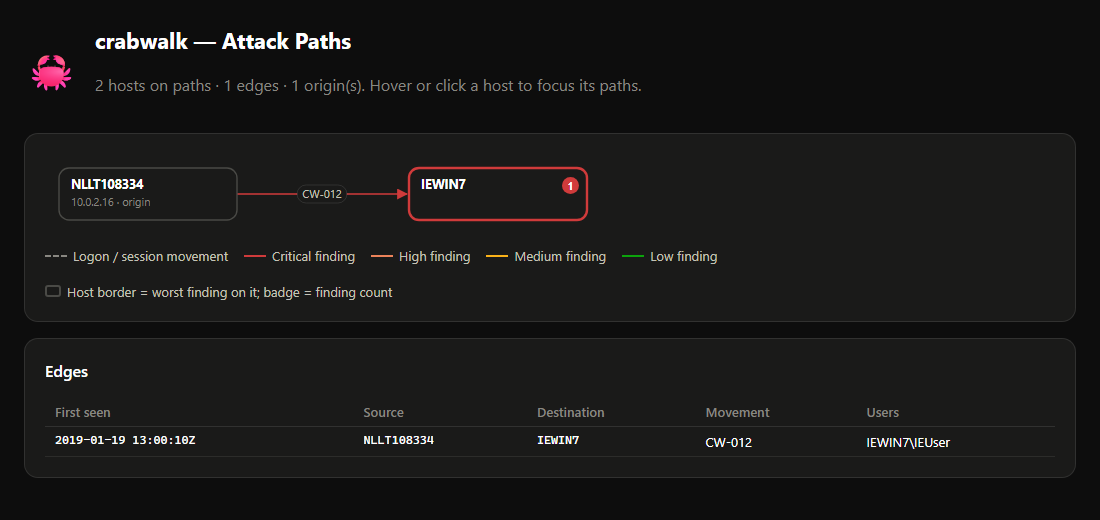
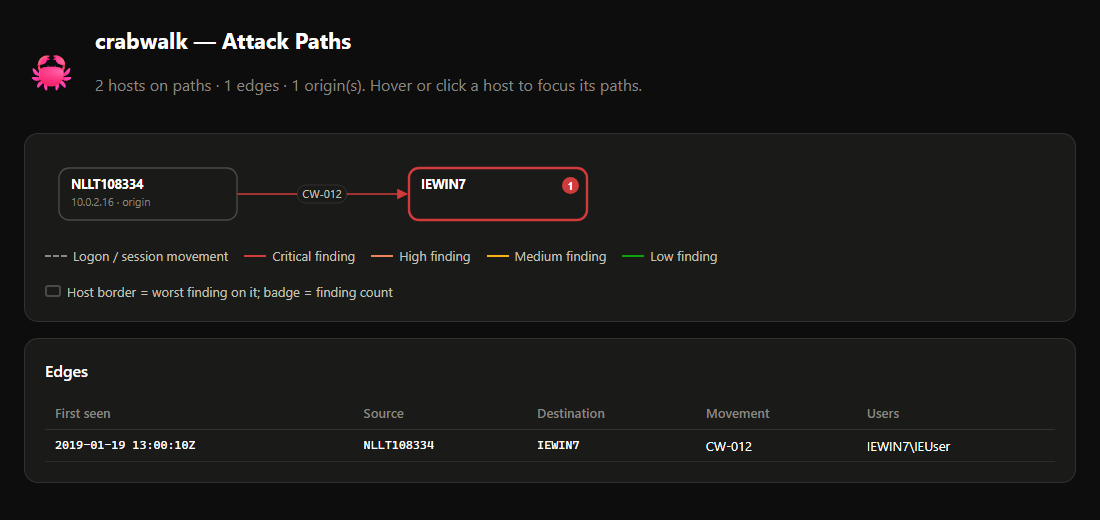
fix: start every report, graph and demo page with a doctype (no quirks mode)
The --report and --graph .html outputs and the demo landing page began with
<meta charset>, so browsers rendered them in quirks mode. style.page_head(),
which starts all three, now writes <!doctype html> and <html lang="en"> first.

Standards mode changes only vertical spacing: table rows now inherit the body
line-height (+2-3 px), story lines lose the line-height quirk (+2-3 px), and
html/body follow the content height. The timeline SVG, inline until now, would
have gained a baseline gap below it, so it gets display:block like the attack
graph. The README hero and the write-up graph image are regenerated from the
new output; CLAUDE.md records the exact Edge flags used for them.

The report and site tests check that every page starts with a doctype.

diff --git a/src/crabwalk/style.py b/src/crabwalk/style.py
@@ -103,6 +103,7 @@ td.num,th.num{text-align:right;font-variant-numeric:tabular-nums}
   .beats .b-text{grid-column:1/-1}
 }
 svg.attack-graph{display:block;max-width:none}
+svg.timeline{display:block}  /* inline, it would sit on the baseline with a gap below */
 svg.attack-graph text{font-family:var(--font)}
 .attack-graph .box{fill:var(--surface)}
 .attack-graph .line{fill:none}
@@ -114,8 +115,13 @@ svg.attack-graph text{font-family:var(--font)}
 
 
 def page_head(title_html: str) -> str:
-    """<head> content shared by every HTML page crabwalk writes."""
+    """The start of every page built on PAGE_CSS (--report, --graph .html, the
+    demo landing page): the doctype (without it a browser renders in quirks
+    mode), <html lang> and the <head> content. The page's body follows; HTML
+    lets <head>, <body> and their closing tags be implied."""
     return (
+        "<!doctype html>\n"
+        '<html lang="en">\n'
         '<meta charset="utf-8">\n'
         '<meta name="viewport" content="width=device-width, initial-scale=1">\n'
         f"<title>{title_html}</title>\n<style>{PAGE_CSS}</style>"

diff --git a/tests/test_demo.py b/tests/test_demo.py
@@ -106,6 +106,9 @@ def test_pages_site_builds_with_a_working_navigator_link(tmp_path):
     assert index.index("separate public lab recordings") < index.index("Path 1")  # caveat first
     layer = json.loads((demo / "navigator-layer.json").read_text(encoding="utf-8"))
     assert layer["domain"] == "enterprise-attack" and layer["techniques"]
+    for page in (demo / "index.html", demo / "report.html", demo / "attack-paths.html",
+                 tmp_path / "index.html", tmp_path / "report.html", tmp_path / "attack-paths.html"):
+        assert page.read_text(encoding="utf-8").startswith("<!doctype html>\n<html lang="), page  # no quirks
 
     # the site root: the project page, and redirects from where the demo used to be
     assert (tmp_path / ".nojekyll").exists()

diff --git a/tests/test_report.py b/tests/test_report.py
@@ -64,7 +64,7 @@ def test_build_layer_empty():
 def test_render_report_is_self_contained_html():
     ctx, findings = sample_hunt()
     html = render_report(ctx, findings)
-    assert html.lstrip().startswith("<meta charset")
+    assert html.startswith('<!doctype html>\n<html lang="en">\n<meta charset="utf-8">')  # no quirks mode
     assert "http://" not in html.split("</style>")[0]  # no external assets in CSS
     assert "<svg" in html  # timeline rendered
     assert "T1070.001" in html

diff --git a/src/crabwalk/report.py b/src/crabwalk/report.py
@@ -187,7 +187,7 @@ def _timeline_svg(findings: list[Finding]) -> str:
         return pad_t + lane_h * hosts.index(host) + lane_h / 2
 
     parts = [
-        f'<svg viewBox="0 0 {width} {height}" width="{width}" height="{height}" '
+        f'<svg class="timeline" viewBox="0 0 {width} {height}" width="{width}" height="{height}" '
         f'role="img" xmlns="http://www.w3.org/2000/svg" font-family="var(--font)">'
     ]
 

diff --git a/CLAUDE.md b/CLAUDE.md
@@ -12,7 +12,11 @@ Conversation with the user is in Turkish; code, comments and docs stay in Englis
                              [--graph g.html|g.dot|g.json] [--story story.md]`
 - report.py = self-contained HTML (inline CSS + Python-generated SVG attack graph and
   swimlane timeline, theme-aware, no JS). navigator.py = ATT&CK layer JSON.
-  style.py = shared CSS + severity palette (status palette, fixed, never themed).
+  style.py = shared CSS + severity palette (status palette, fixed, never themed);
+  style.page_head() starts every page built on PAGE_CSS (--report, --graph .html, the demo
+  landing page): doctype + <html lang="en">, so no quirks mode (tables inherit body
+  line-height; inline SVGs need display:block or they leave a baseline gap). The Turkish
+  project page and build_site._redirect write their own doctype; every new page needs one.
 - hosts.py = host identity (clean_ip, short_host, HostResolver: IP<->name collapsing).
   Never split an IP on '.' to get a "short name" — use short_host(), it returns None for IPs.
 - graph.py = attack-path graph: one node per machine (HostResolver key), edges from
@@ -96,9 +100,11 @@ Conversation with the user is in Turkish; code, comments and docs stay in Englis
 - Visual check of HTML output: render with Edge headless
   (`msedge --headless=new --screenshot=out.png --window-size=1300,1212 file:///...`,
   URL-encode the ü in Masaüstü as %C3%BC) and look at the PNG; docs/report-screenshot.png
-  is the README hero (the demo/evtx report, `--force-dark-mode --window-size=1300,1580`)
-  and docs/writeups/img/01-attack-path-graph.png the write-up's graph (1100,520). Regenerate
-  both when rule wording or the graph changes. From bash, launch Edge via PowerShell
+  is the README hero (`crabwalk hunt demo/evtx --report`, `--force-dark-mode
+  --hide-scrollbars --window-size=1300,1580`) and docs/writeups/img/01-attack-path-graph.png
+  the write-up's graph (`crabwalk hunt demo/evtx/LM_renamed_psexecsvc_5145.evtx --graph`,
+  `--force-dark-mode --hide-scrollbars --window-size=1100,520`). Regenerate both when rule
+  wording, the graph or the page CSS changes. From bash, launch Edge via PowerShell
   Start-Process (the bash call returns before the PNG is written).
 - Parser reality (learned the hard way): pyevtx-rs nests XML attributes under
   `#attributes` (Provider Name, TimeCreated SystemTime, Security UserID) — NOT `@name`.
